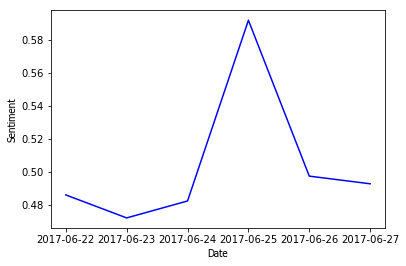
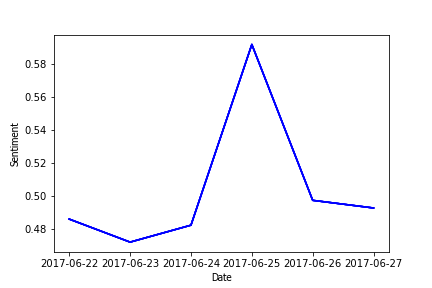
add style sheet

Changed region(s): [[0.0, 0.0301, 1.0, 0.9925]]

diff --git a/index.html b/index.html
@@ -8,16 +8,12 @@
 
   <title>C Mood Today</title>
 
-  <link rel="stylesheet" href="./styles.css">
-  <link rel="canonical" href="http://localhost:4000/about">
-  <link rel="alternate" type="application/rss+xml" title="Jane Leonard&#39;s Site" href="/feed.xml">
-  
-  
+  <link rel="stylesheet" href="./styles.css">  
 </head>
 
 
 <body>
 <h2 class="title">Congress's Mood Today</h2>
-<img src="./todaysMood.png" alt="Congress's Mood" class="">
+<img src="./todaysMood.png" alt="Congress's Mood" class="graph">
 
 </html>

diff --git a/styles.css b/styles.css
@@ -1,0 +1,8 @@
+.title{
+display: block;
+margin: 0 auto;	
+}
+.graph {
+display: block;
+margin: 0 auto;	
+}
